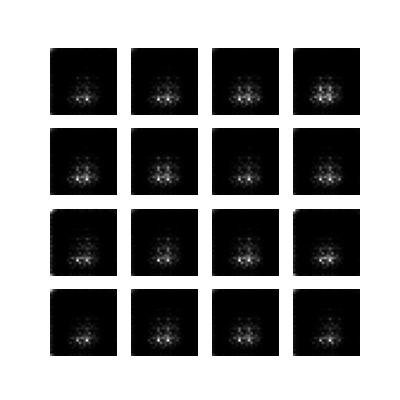
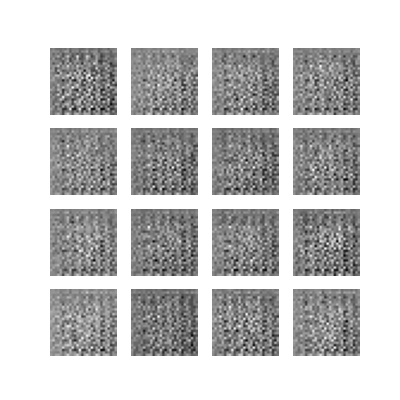
Add files via upload

diff --git a/GenAI/GenAI.py b/GenAI/GenAI.py
@@ -6,11 +6,9 @@ import matplotlib.pyplot as plt
 # Load and preprocess MNIST dataset
 (train_images, _), (_, _) = tf.keras.datasets.mnist.load_data()
 train_images = (train_images - 127.5) / 127.5  # Normalize to [-1, 1]
+train_images = train_images[:1000]  # Select the first 1000 images
 train_images = train_images.reshape(train_images.shape[0], 28, 28, 1).astype('float32')
 
-print("Load ended")
-
-print("Gen Model")
 # Generator model
 def make_generator_model():
     model = models.Sequential()
@@ -29,9 +27,7 @@ def make_generator_model():
 
     model.add(layers.Conv2DTranspose(1, (5, 5), strides=(2, 2), padding='same', use_bias=False, activation='tanh'))
     return model
-print("Gen Model done")
 
-print("Disc Model")
 # Discriminator model
 def make_discriminator_model():
     model = models.Sequential()
@@ -47,41 +43,34 @@ def make_discriminator_model():
     model.add(layers.Dense(1))
     return model
 
+# Define loss function and optimizers
+cross_entropy = tf.keras.losses.BinaryCrossentropy(from_logits=True)
+generator_optimizer = tf.keras.optimizers.Adam(1e-4)
+discriminator_optimizer = tf.keras.optimizers.Adam(1e-4)
 
-print("Disc Model")
+# Define number of epochs and batch size
+EPOCHS = 100
+BATCH_SIZE = 64
+noise_dim = 100
+num_examples_to_generate = 16
 
+# Define seed for generating random noise
+seed = tf.random.normal([num_examples_to_generate, noise_dim])
+
+# Define generator and discriminator models
 generator = make_generator_model()
 discriminator = make_discriminator_model()
 
-# Define loss function
-cross_entropy = tf.keras.losses.BinaryCrossentropy(from_logits=True)
+# Define generator loss
+def generator_loss(fake_output):
+    return cross_entropy(tf.ones_like(fake_output), fake_output)
 
-print("DiscLoss")
 # Define discriminator loss
 def discriminator_loss(real_output, fake_output):
     real_loss = cross_entropy(tf.ones_like(real_output), real_output)
     fake_loss = cross_entropy(tf.zeros_like(fake_output), fake_output)
     total_loss = real_loss + fake_loss
     return total_loss
-
-print("GenLoss")
-
-# Define generator loss
-def generator_loss(fake_output):
-    return cross_entropy(tf.ones_like(fake_output), fake_output)
-
-# Define optimizers
-generator_optimizer = tf.keras.optimizers.Adam(1e-4)
-discriminator_optimizer = tf.keras.optimizers.Adam(1e-4)
-
-# Define number of epochs and batch size
-EPOCHS = 100
-BATCH_SIZE = 256
-noise_dim = 100
-num_examples_to_generate = 16
-
-# Define seed for generating random noise
-seed = tf.random.normal([num_examples_to_generate, noise_dim])
 
 # Generate and save images
 def generate_and_save_images(model, epoch, test_input):
@@ -118,13 +107,10 @@ def train_step(images):
 
     return gen_loss, disc_loss
 
-
-
 # Train the GAN
 def train(dataset, epochs):
     for epoch in range(epochs):
         for image_batch in dataset:
-
             gen_loss, disc_loss = train_step(image_batch)
 
         if epoch % 10 == 0:
